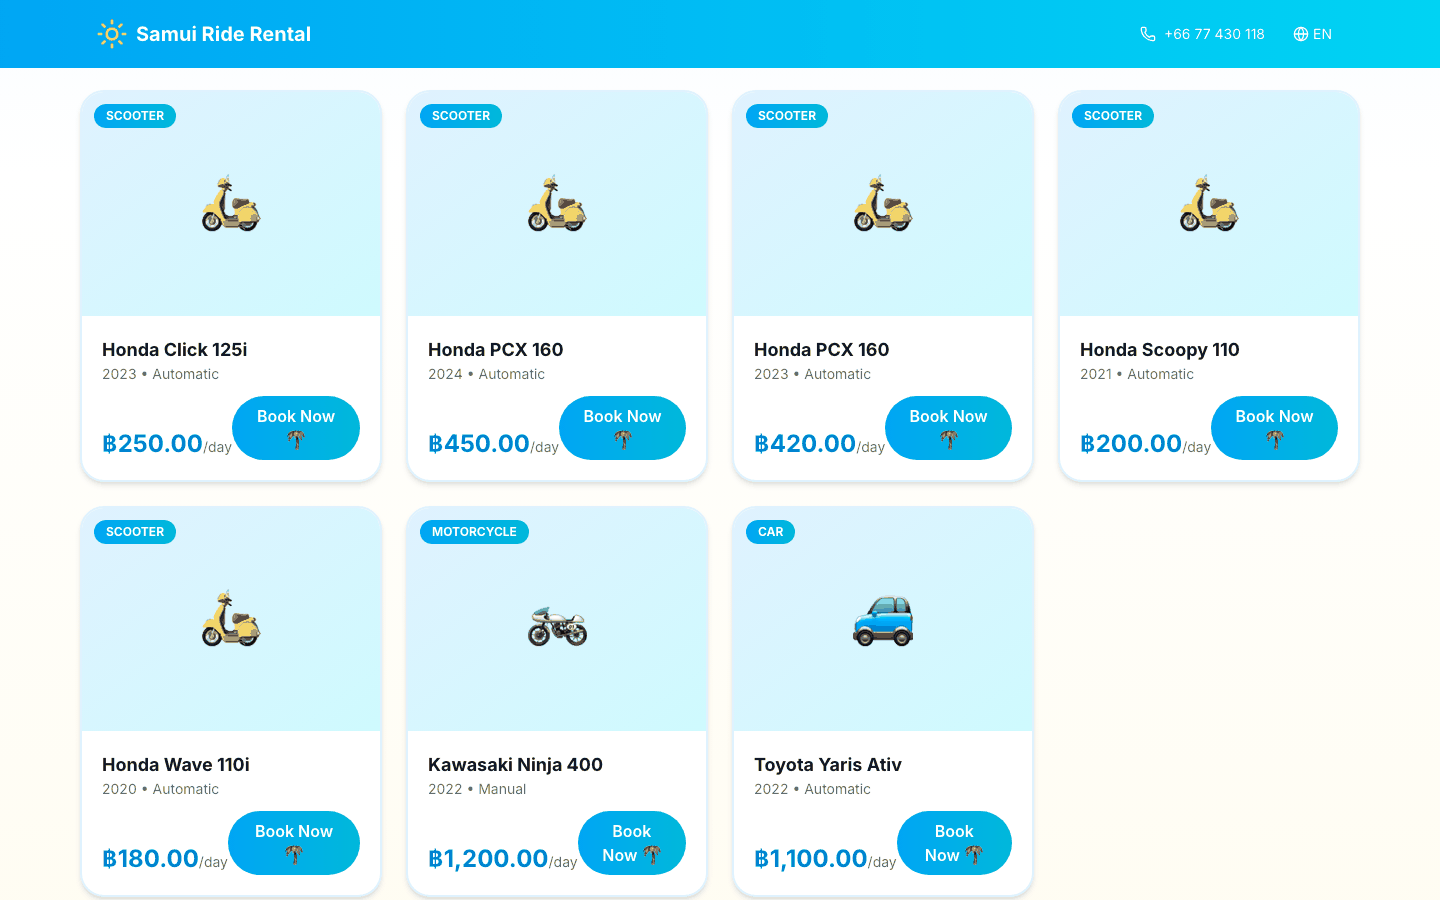
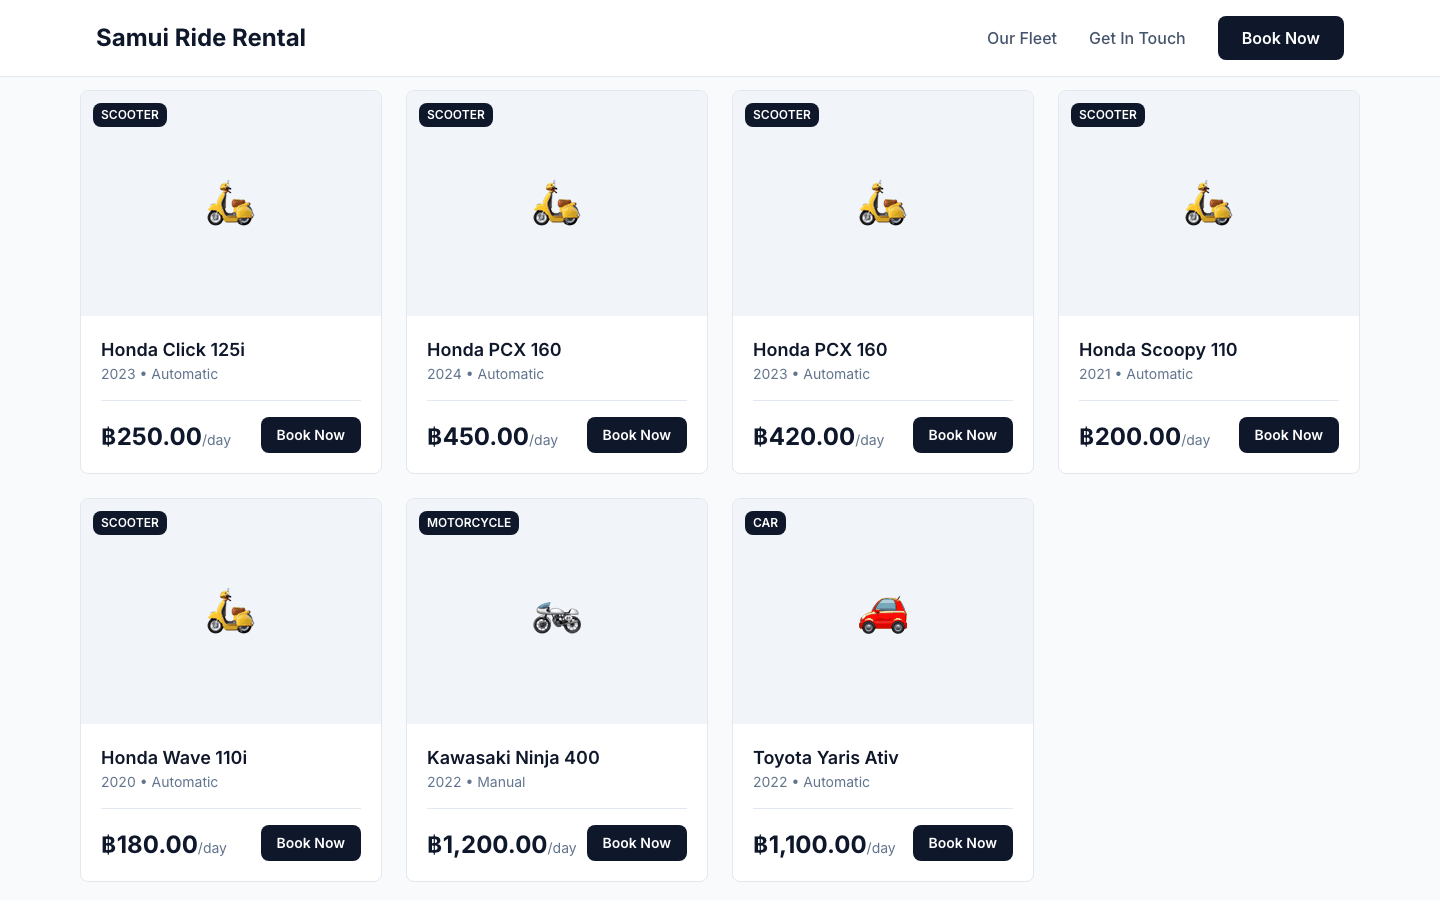
Photograph the storefront in the template that represents it
The storefront shot was taken on the "tourist" template — the brightest of the
five, with a saturated gradient, palm emoji in the background and exclamation
copy. It reads as a toy site, and it was the shot standing in for "this is your
online store".

Retaken on the restrained template: a plain header with the shop's phone and
email, muted cards, type badges, legible prices. Same shop, same data.

The page now also says the look is a setting rather than a fixed design, since
one screenshot cannot represent five templates, and an owner should know to try
them before concluding the storefront looks wrong for their business.

diff --git a/05-day-owner.md b/05-day-owner.md
@@ -126,7 +126,12 @@ the verticals you actually have turned on, so a scooter shop never shows an
 empty villa section. Prices are shown per day, per night or per person,
 whichever the thing is sold by, in your own currency.
 
-![The live storefront as a customer sees it, with product cards and prices](img/storefront.png)
+**The look is a setting, not a fixed design.** Settings → E-Shop offers several
+templates, from a restrained one to a bright holiday style, plus your own theme
+colour and hero text. The screenshot below is one of them — try a few and pick
+the one that sounds like your shop.
+
+![The live storefront as a customer sees it: a card per vehicle with its type, year, transmission and daily price, and a Book Now button](img/storefront.png)
 
 Two things are deliberately left off, because a card with no price is worse than
 no card: a property with no nightly rate, and a trip with no rate set. If
